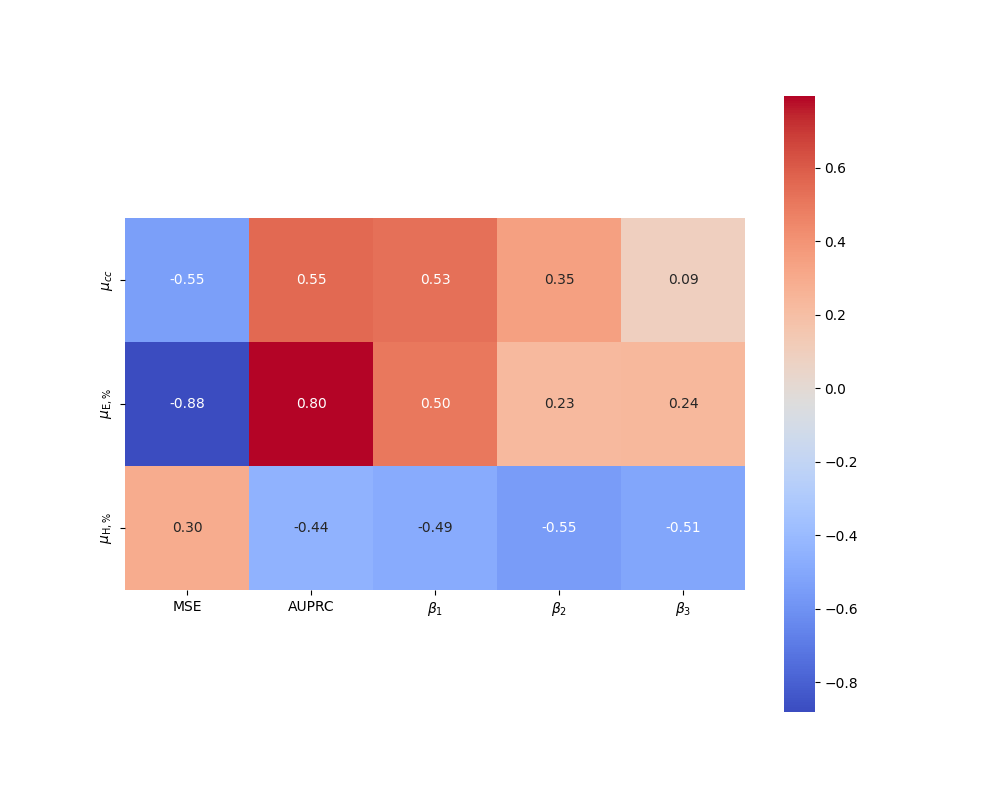
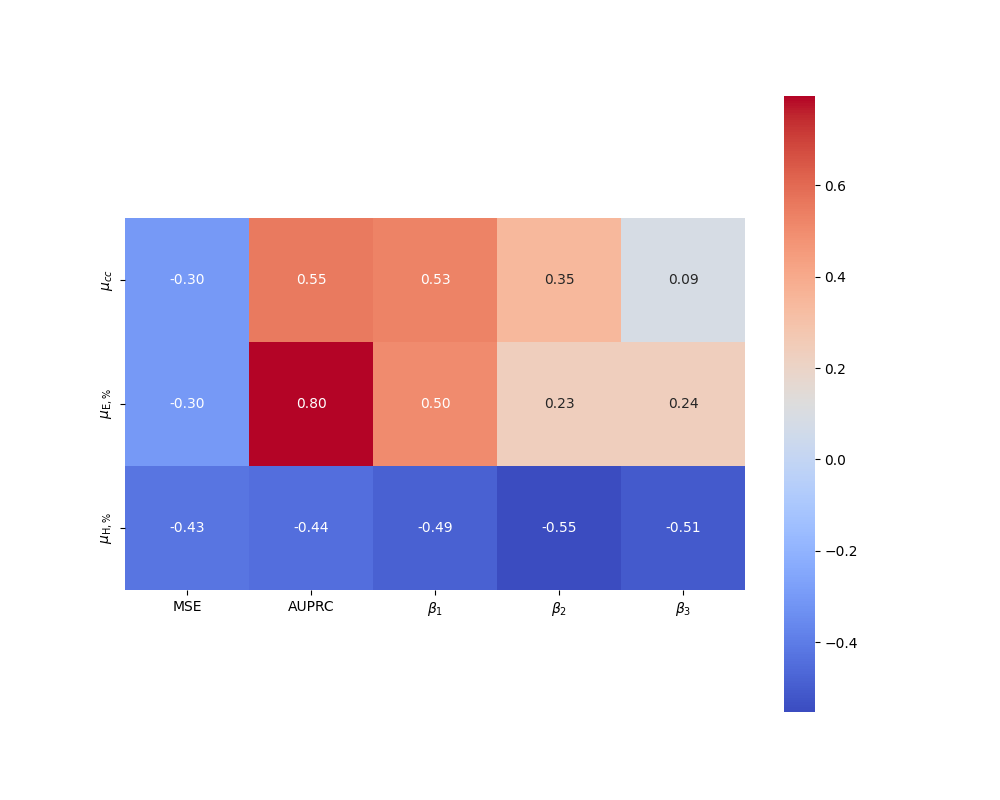
tmp solution

diff --git a/results_analysis.py b/results_analysis.py
@@ -1,4 +1,5 @@
 import matplotlib.pyplot as plt
+from sklearn.manifold import TSNE
 
 from get_data import *
 from utils import *
@@ -250,10 +251,15 @@ def autocorrelate_table(data_csv_names, dataset_properties_csv_name):
 
     df = pd.merge(df, df_properties, on=['Dataset name', 'delta_t'])
 
-    df['SCDModel MSE'] = df['SCDModel MSE'] / (df["average_edge_weight"] ** 2)
+    # ceil the average edge weight
+    df["average_edge_weight"] = np.ceil(df["average_edge_weight"])
+    df["average_edge_weight"] = df["average_edge_weight"] ** 2
+
+    df["SCDModel MSE"] = df["SCDModel MSE"] / df["average_edge_weight"]
 
     # Select only the columns of interest
-    properties = ['average_clustering', 'average_percentage_of_links_per_snapshot', 'average_weighted_interaction_entropy']
+    properties = ['average_clustering', 'average_percentage_of_links_per_snapshot',
+                  'average_weighted_interaction_entropy']
     scd_betas = ["SCDModel MSE", "SCDModel AUPRC", 'SCDModel coef 1', 'SCDModel coef 2', 'SCDModel coef 3']
     df_subset = df[properties + scd_betas]
 
@@ -264,7 +270,7 @@ def autocorrelate_table(data_csv_names, dataset_properties_csv_name):
     correlations_scd = correlations.loc[properties, scd_betas]
 
     # Rename columns and rows for LaTeX-style formatting
-    correlations_scd.columns = [ 'MSE', 'AUPRC', r'$\beta_1$', r'$\beta_2$', r'$\beta_3$']
+    correlations_scd.columns = ['MSE', 'AUPRC', r'$\beta_1$', r'$\beta_2$', r'$\beta_3$']
     correlations_scd.index = [
         r'$\mu_{cc}$',
         r'$\mu_{\text{E}, \%}$',
@@ -287,7 +293,14 @@ def plot_scatterplot_weight_to_mse(data_csv_name, dataset_properties_csv_name):
     # Merge the two dataframes on 'Dataset name' and 'delta_t'
     df = pd.merge(df, df_properties, on=['Dataset name', 'delta_t'])
 
-    df['SCDModel MSE'] = df['SCDModel MSE'] / (df["average_edge_weight"] ** 2)
+    # ceil the average edge weight
+    df["average_edge_weight"] = np.ceil(df["average_edge_weight"])
+    df["average_edge_weight"] = df["average_edge_weight"] ** 2
+
+    # filter out the rows with average edge weight > 200
+    df = df[df["average_edge_weight"] <= 200]
+
+    df["SCDModel MSE"] = df["SCDModel MSE"] / df["average_edge_weight"]
 
     # fit a line to the data
     sns.lmplot(data=df, x='average_edge_weight', y='SCDModel MSE', height=6.5, aspect=1.5)
@@ -295,14 +308,16 @@ def plot_scatterplot_weight_to_mse(data_csv_name, dataset_properties_csv_name):
     # Plot a scatterplot of average edge weight vs. SCDModel MSE
     sns.scatterplot(data=df, x='average_edge_weight', y='SCDModel MSE')
 
-    plt.xlabel('Average Edge Weight')
+    # Set the zoom limits for x and y axes (adjust as necessary)
+    plt.xlim(0, 150)  # Set the limit for the x-axis
+    plt.ylim(0, 15)  # Set the limit for the y-axis
+
+    plt.xlabel('Average squared link weight')
     plt.ylabel('Normalized SCDModel MSE')
     plt.savefig('results/plots/weight_vs_mse_normalized.png')
     plt.show()
 
 
-
 # autocorrelate_table(['results/best_results_grid.csv'],
 #                         'results/aggregated_properties.csv')
-
-# plot_scatterplot_weight_to_mse('results/best_results_grid.csv', 'results/aggregated_properties.csv')
+plot_scatterplot_weight_to_mse('results/best_results_grid.csv', 'results/aggregated_properties.csv')

diff --git a/utils.py b/utils.py
@@ -335,4 +335,4 @@ def geo_mean(iterable):
     # Use log transformation to avoid overflow, then take the mean
     return np.exp(np.mean(np.log(a)))
 
-data_analysis_table('results/aggregated_properties.csv')
+# data_analysis_table('results/aggregated_properties.csv')
